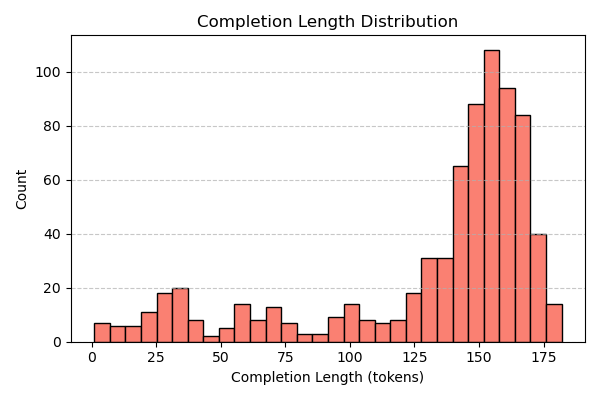
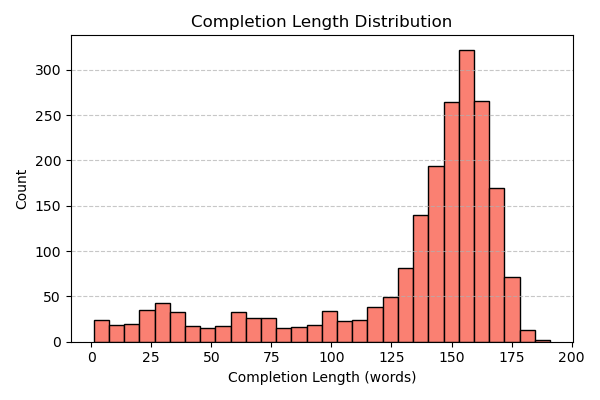
debug

diff --git a/p_tuning/tuning.py b/p_tuning/tuning.py
@@ -4,6 +4,9 @@ from demo_watermark import load_model
 from peft import get_peft_model, PromptEncoderConfig, TaskType
 from transformers import Trainer, TrainingArguments, default_data_collator
 
+import pandas as pd
+import matplotlib.pyplot as plt
+
 
 def load_training_data(path='./p_tuning_data.jsonl'):
     dataset = load_dataset("json", data_files=path)
@@ -59,9 +62,8 @@ def train(model, tokenized_dataset, tokenizer):
         per_device_train_batch_size=4,
         num_train_epochs=2,
         learning_rate=5e-5,
-        # 和logging相关的参数
         save_total_limit=1,
-        logging_steps=10,
+        logging_steps=10,  # 每隔多少step记录一次
         save_steps=500,
         logging_dir="./logs",
         fp16=True,
@@ -78,6 +80,21 @@ def train(model, tokenized_dataset, tokenizer):
 
     trainer.train()
     print("Finished!")
+
+    logs = trainer.state.log_history
+    df = pd.DataFrame(logs)
+    loss_df = df[df["loss"].notna()].sort_values("step")
+
+    # 画图
+    plt.figure(figsize=(6, 4))
+    plt.plot(loss_df["step"], loss_df["loss"])
+    plt.xlabel("Global step")
+    plt.ylabel("Training loss")
+    plt.title("Training loss over steps")
+    plt.grid(True, alpha=0.3)
+    plt.tight_layout()
+    plt.savefig("training_loss_curve.png", dpi=200)
+    plt.close()
 
 
 def get_ptuned_opt(args):

diff --git a/app.py b/app.py
@@ -53,17 +53,17 @@ arg_dict = {
 
 args.__dict__.update(arg_dict)
 
-# from p_tuning.tuning import get_ptuned_opt
-#
-# get_ptuned_opt(args)
+from p_tuning.tuning import get_ptuned_opt
+
+get_ptuned_opt(args)
 
 # from demo_watermark import main
 #
 # main(args)
 
-from p_tuning.training_data import get_train_data
-
-get_train_data(args)
+# from p_tuning.training_data import get_train_data
+#
+# get_train_data(args)
 
 # from attack_experiment.under_attack import get_output_dicts_without_watermark
 #
